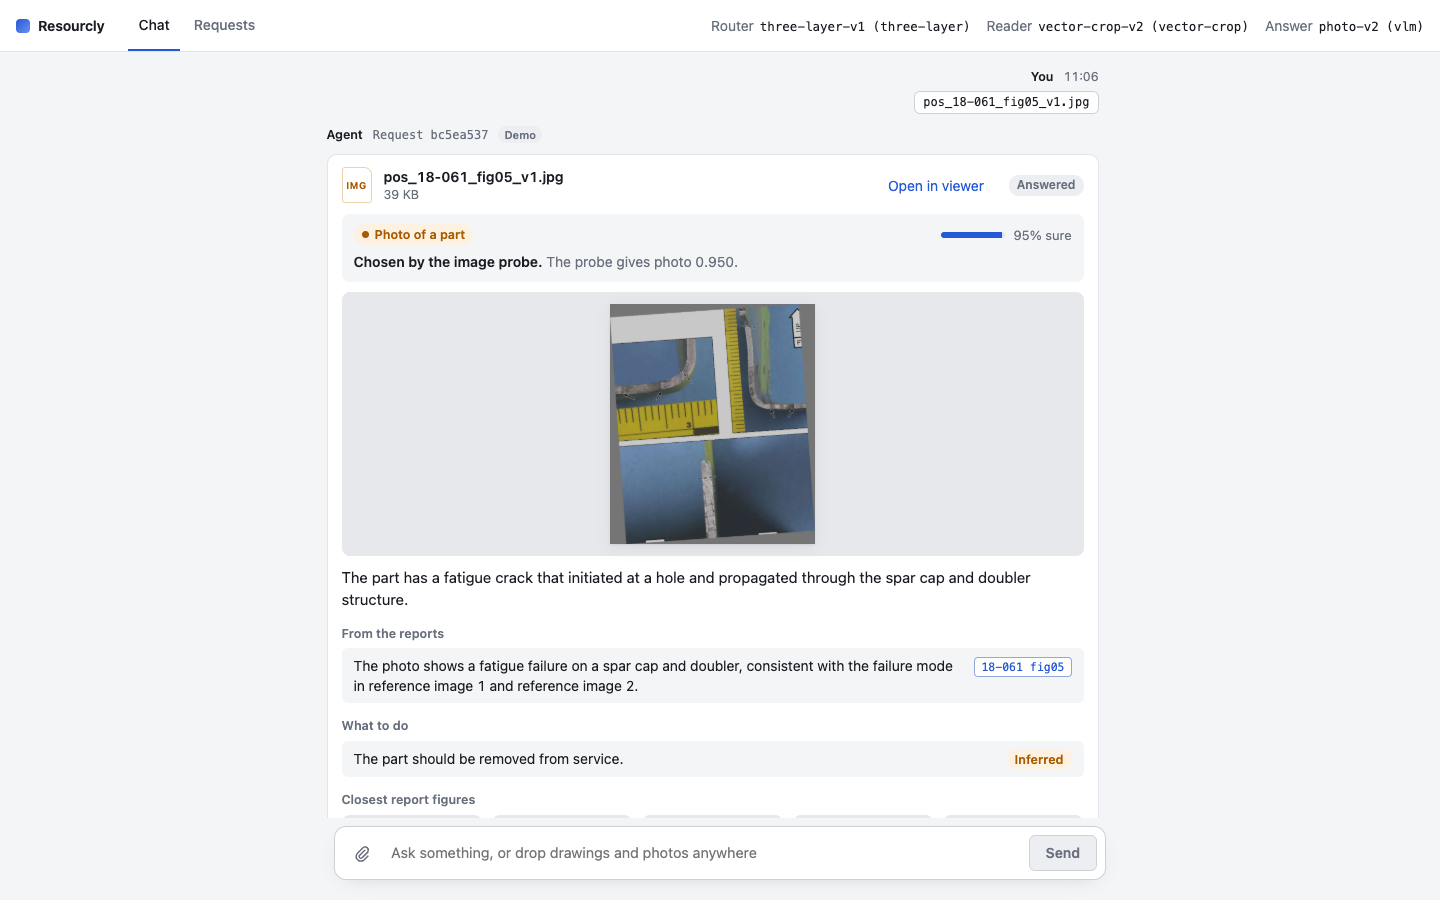
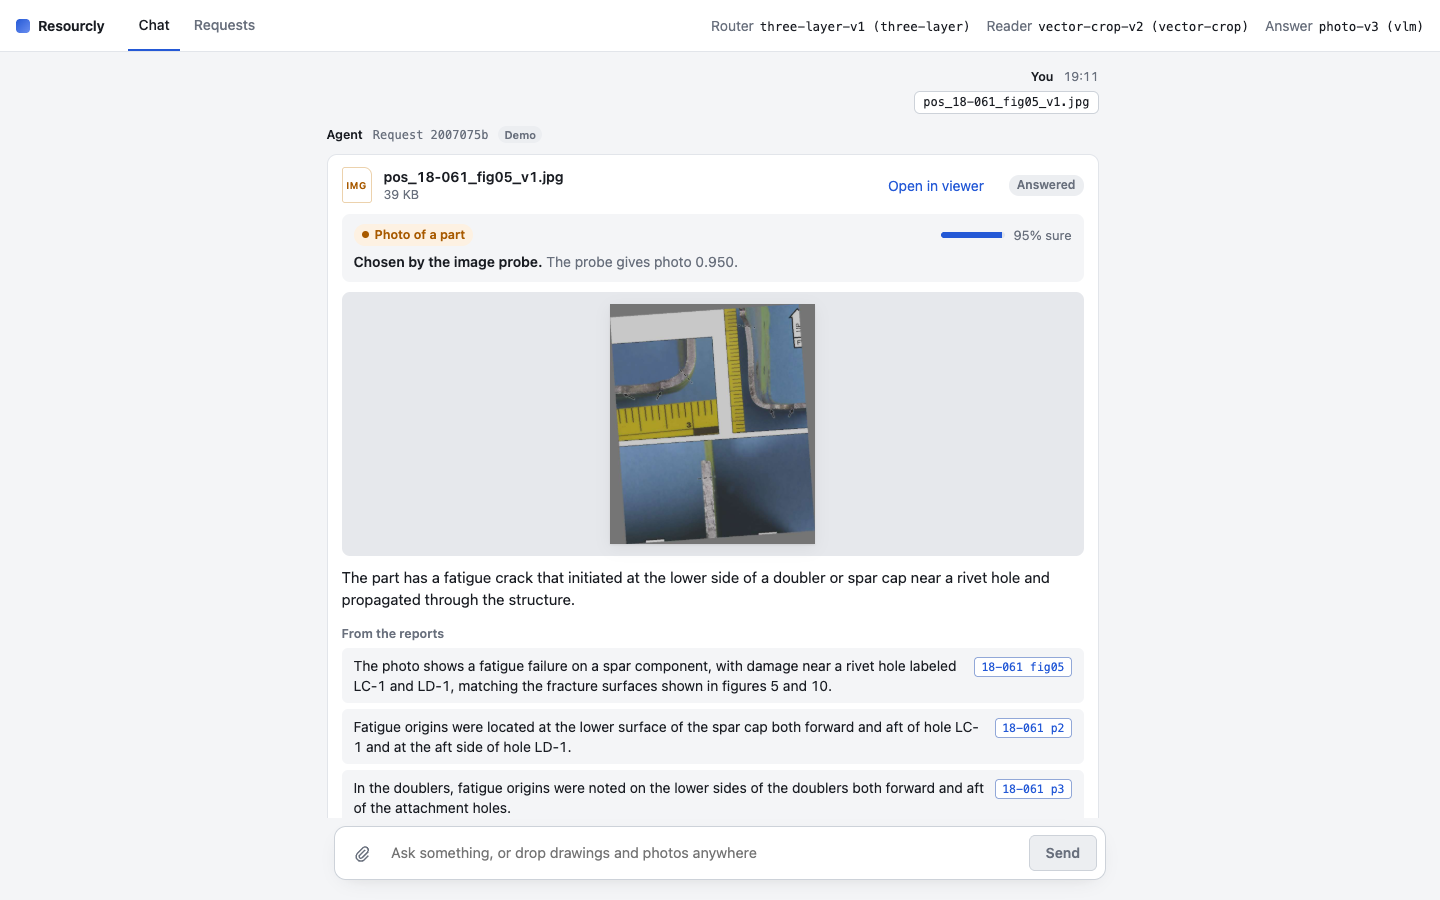
docs(demo): answer the photo demo with photo-v3
The photo demo and the chat screenshots showed photo-v2 telling users
about "reference image 1 and reference image 2". The demo is now a live
photo-v3 request, every step run for real, so nothing is replayed.

diff --git a/tests/test_demo_chats.py b/tests/test_demo_chats.py
@@ -16,11 +16,11 @@ from fastapi.testclient import TestClient
 
 from resourcly.api import create_app
 from resourcly.bootstrap import PROJECT_ROOT, Settings
+from resourcly.eval_harness.metrics import PROMPT_WORDS
 from resourcly.models import RequestRecord, TraceEvent
 
 DEMO = PROJECT_ROOT / "demo"
 DEMO_IDS = sorted(path.parent.name for path in DEMO.glob("*/request.json"))
-PHOTO_RUNS = PROJECT_ROOT / "evals" / "photo-answers" / "runs" / "photo-v2-spot.jsonl"
 
 
 def demo_record(route: str) -> RequestRecord:
@@ -83,21 +83,19 @@ def test_the_drawing_demo_is_the_vector_crop_v2_reading_in_outputs() -> None:
     assert (read.step, read.called) == ("drawings.read", "reader vector-crop-v2 (vector-crop)")
 
 
-def test_the_photo_demo_is_the_stored_photo_v2_answer() -> None:
+def test_the_photo_demo_is_a_photo_v3_answer_free_of_the_prompts_words() -> None:
     record = demo_record("photo")
     item = record.items[0]
-    stored = next(
-        json.loads(line)
-        for line in PHOTO_RUNS.read_text(encoding="utf-8").splitlines()
-        if json.loads(line)["case_id"] == "pos_18-061_fig05_v1"
-    )
 
-    assert item.answer is not None
-    assert item.answer.model_dump(mode="json") == stored["answer"]
+    assert item.answer is not None and item.answer.matched
     answer = demo_trace(record.request_id)[-1]
     assert answer.step == "answer.photo"
-    assert answer.called.startswith("answer photo-v2 (vlm): ")
-    assert answer.output["text"] == stored["model_text"]
+    assert answer.called.startswith("answer photo-v3 (vlm): ")
+    assert (answer.output["findings"], answer.output["actions"]) == (
+        len(item.answer.findings),
+        len(item.answer.actions),
+    )
+    assert PROMPT_WORDS.search(item.reply or "") is None
 
 
 def test_serve_opens_the_chat_with_the_demos(client: TestClient) -> None:

diff --git a/demo/README.md b/demo/README.md
@@ -11,7 +11,7 @@ Each folder is one request in the request store's own layout: `request.json`, th
 | Request | File | Result |
 | --- | --- | --- |
 | `28c8fc7699d04c04a74a0229ba7d6ae7` | `nist_ctc_01_asme1_rd.pdf` | 23 values, read by `vector-crop-v2` |
-| `bc5ea537eea04684b311e4c4c56b184c` | `pos_18-061_fig05_v1.jpg` | a spar cap fatigue crack, answered by `photo-v2` |
+| `2007075b8a10405ea9ced3696d4ff56c` | `pos_18-061_fig05_v1.jpg` | a spar cap fatigue crack, answered by `photo-v3` |
 
 ## Where each output comes from
 
@@ -20,19 +20,15 @@ Both outputs are real. They were not written by hand.
 - The drawing's JSON is `outputs/nist_ctc_01_asme1_rd.json`, the reader's run on all gold. That
   run was `vector-crop-v1`. `vector-crop-v2` only adds a whole-page read for a page with no vector
   callouts, and every NIST page has them, so on this drawing v2 reads the same.
-- The photo is a changed copy of report figure 18-061 fig05 from `evals/gold/failure/images/`.
-  Its answer is the `photo-v2` run of the spot check, `evals/photo-answers/runs/photo-v2-spot.jsonl`,
-  which a person judged right. The chat server had no answered photo to take instead.
+- The photo is a changed copy of report figure 18-061 fig05 from `evals/gold/failure/images/`. It
+  was sent through the chat with `photo-v3`, and every step ran for real: the DINOv2-small probe
+  routed it at 0.950, `dinov2-base-v1` found the figures, and Qwen3-VL 8B answered. Its record,
+  trace and times are the ones that request stored.
 
-The records and traces were made by sending both files through the agent itself, with the stored
-outputs replayed where a model would have run:
+The drawing's record and trace were made by sending it through the agent itself, with the stored
+JSON replayed where the reader would have run:
 
-- Routing ran for real with `three-layer-v1`: the structure rules decided the drawing, and the
-  DINOv2-small probe decided the photo at 0.950. The Qwen3-VL layer was not needed.
-- The figure search ran for real with `dinov2-base-v1`, and the answer's citations went through
-  the real check. The answer came out the same as the stored one, figure scores included.
-- The reader's JSON and the answer model's text were replayed. Their two steps would have taken
-  milliseconds, so their times are set to the measured ones: 64 s for the read, the reader's
-  average per page on the NIST run (`NOTES.md`), and 37.7 s for the answer, the stored run's 38.3 s
-  less the figure search.
+- Routing ran for real with `three-layer-v1`: the structure rules decided the drawing.
+- The read would have taken milliseconds, so its time is set to 64 s, the reader's average per
+  page on the NIST run (`NOTES.md`).
 - The reading's answer issues were not stored with `outputs/`, so the trace counts 0.

diff --git a/NOTES.md b/NOTES.md
@@ -145,11 +145,11 @@ How to use it: `docs/chat-ui.md`.
 A reviewer who opens the chat would wait a minute for a drawing and 20 to 35 s for a photo before
 seeing anything. So `serve` opens the chat with two answered requests, each marked Demo.
 
-- What: CTC-01 as read by `vector-crop-v2` (its JSON in `outputs/`), and the spar cap photo of the
-  `photo-v2` spot check, judged right. Both are real outputs, not written by hand.
-- How they were made: the stored outputs were replayed through the agent itself, so the records
-  and traces have the shape a live request has. Routing, the figure search and the citation check
-  ran for real; only the reader's JSON and the answer model's text were replayed.
+- What: CTC-01 as read by `vector-crop-v2` (its JSON in `outputs/`), and a spar cap photo
+  answered by `photo-v3`. Both are real outputs, not written by hand.
+- How they were made: the drawing's stored JSON was replayed through the agent itself, so its
+  record and trace have the shape a live request has. The photo was a live request; every step
+  ran for real.
 - Loading: `demo/<request id>/` is in the request store's own layout. On start, `serve` copies in
   each demo the store does not have, and its trace when the trace has none. A request already in
   the store is never replaced. `--no-demo` or `RESOURCLY_DEMO_CHATS=0` turns it off.

diff --git a/docs/chat-ui.md b/docs/chat-ui.md
@@ -20,7 +20,7 @@ It routes with the default `three-layer-v1` router, which needs the extras and m
 points it at another build. The label screen stays on `uv run resourcly annotation-ui`.
 
 The chat opens with two demo chats, each marked Demo: the NIST drawing CTC-01 read by
-`vector-crop-v2`, and a photo of a cracked spar cap answered by `photo-v2`. They were answered
+`vector-crop-v2`, and a photo of a cracked spar cap answered by `photo-v3`. They were answered
 before, so their page, values, figures and trace show at once, with or without the models. `serve`
 adds them from `demo/` to the request store when it starts, unless the store has them already; a
 request you send is never replaced. `uv run resourcly serve --no-demo` or `RESOURCLY_DEMO_CHATS=0`
